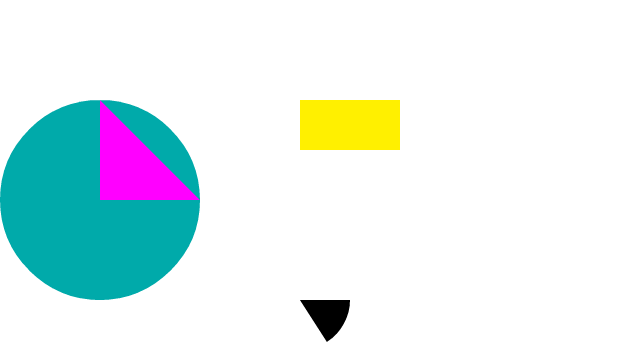
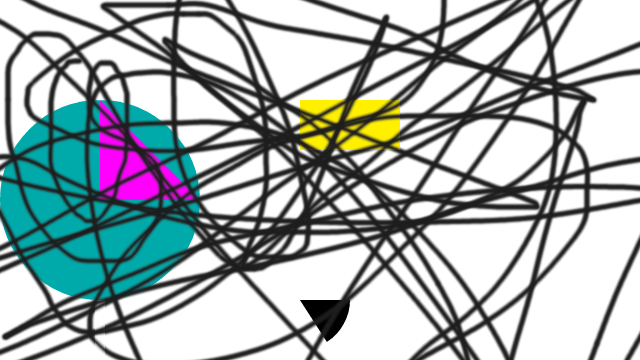
Added Draw Image!!!
Given an image path and a location wher to draw it, the function has 3 diferent options: originalsize, resize and a resize using a multiplier

diff --git a/src/lib.rs b/src/lib.rs
@@ -16,6 +16,8 @@ use font_kit::source::SystemSource;
 
 use euclid::Point2D;
 
+use image::open;
+
 pub enum EventClient {
     LeftClick,
     RightClick,
@@ -24,6 +26,18 @@ pub enum EventClient {
 pub enum MessageXPTO {
     Abc,
     Dfg,
+}
+
+#[derive(Copy, Clone)]
+pub enum DrawImageOptions {
+    OriginalSize,
+    Resize {
+        width: f32,
+        height: f32,
+    },
+    ResizeMultiplyer {
+        mult: f32,
+    }
 }
 
 pub struct DisplayMinifb {
@@ -200,9 +214,23 @@ impl Raqote {
         );
     }
 
-    fn draw_image(&mut self, point: Point2D<f32, f32>) {
-        //self.dt.draw_image_with_size_at(width: f32, height: f32, x: f32, y: f32, image: &Image, options: &DrawOptions)
-        // [todo] how to insert image pointer here?
+    fn draw_image(&mut self, point: Point2D<f32, f32>, path: &str, options: DrawImageOptions) {
+        let rgba = open(path).unwrap().into_rgba();
+        let img: Vec<u32> = rgba.
+            pixels()
+            .map(|p| {
+                ((p[3] as u32) << 24) | ((p[0] as u32) << 16) | ((p[1] as u32) << 8) | (p[2] as u32)
+            })
+            .collect();
+        match options {
+            DrawImageOptions::OriginalSize => 
+                self.dt.draw_image_at(point.x, point.y, &raqote::Image { width:rgba.width() as i32, height: rgba.height() as i32, data: &img}, &DrawOptions::new()),
+            DrawImageOptions::Resize {width, height} => 
+                self.dt.draw_image_with_size_at(width, height,point.x, point.y, &raqote::Image { width:rgba.width() as i32, height: rgba.height() as i32, data: &img}, &DrawOptions::new()),
+            DrawImageOptions::ResizeMultiplyer {mult} => 
+                self.dt.draw_image_with_size_at(rgba.width() as f32*mult,rgba.height() as f32*mult,point.x, point.y, &raqote::Image { width:rgba.width() as i32, height: rgba.height() as i32, data: &img}, &DrawOptions::new()),
+        }
+        
     }
 
     fn draw_text(&mut self, point: Point2D<f32, f32>, string: &str) {
@@ -219,7 +247,7 @@ impl Raqote {
     }
 }
 
-impl Renderer<DisplayMinifb, EventClient, Point2D<f32, f32>, Color> for Raqote {
+impl Renderer<DisplayMinifb, EventClient, Point2D<f32, f32>, Color, DrawImageOptions> for Raqote {
     type Message = MessageXPTO;
     fn map_events(event_client: EventClient) -> event::Event {
         match event_client {
@@ -246,7 +274,7 @@ impl Renderer<DisplayMinifb, EventClient, Point2D<f32, f32>, Color> for Raqote {
 
     fn draw(
         &mut self,
-        instruction: RenderInstruction<Point2D<f32, f32>, Color>,
+        instruction: RenderInstruction<Point2D<f32, f32>, Color, DrawImageOptions>,
         display: &mut DisplayMinifb,
     ) {
         match instruction {
@@ -276,7 +304,7 @@ impl Renderer<DisplayMinifb, EventClient, Point2D<f32, f32>, Color> for Raqote {
                 point_c,
                 color,
             } => self.draw_triangle(point_a, point_b, point_c, color),
-            RenderInstruction::DrawImage { point } => self.draw_image(point),
+            RenderInstruction::DrawImage { point, path, options } => self.draw_image(point, path, options),
             RenderInstruction::DrawText { point, string } => self.draw_text(point, string),
         }
     }

diff --git a/src/bin/draw.rs b/src/bin/draw.rs
@@ -2,12 +2,14 @@ use hyber;
 use hyber::renderer::RenderInstruction;
 use hyber::renderer::RenderInstructionCollection;
 
+use hyber_raqote::DrawImageOptions;
+
 use euclid::Point2D;
 use raqote::Color;
 use std::collections::BTreeMap;
 
 // Method to simulate an iteration over the Render Instructions on the Collection
-fn renderer(render: &BTreeMap<u32, Vec<RenderInstruction<Point2D<f32, f32>, Color>>>) {
+fn renderer(render: &BTreeMap<u32, Vec<RenderInstruction<Point2D<f32, f32>, Color, DrawImageOptions>>>) {
     // Create a Render Instruction Collection with the previous BTreeMap
     let _collection = RenderInstructionCollection {
         instructions: render,
@@ -33,7 +35,7 @@ fn renderer(render: &BTreeMap<u32, Vec<RenderInstruction<Point2D<f32, f32>, Colo
 }
 
 // Method to simulate the creation of frame 1
-fn frame_1(render: &mut BTreeMap<u32, Vec<RenderInstruction<Point2D<f32, f32>, Color>>>) {
+fn frame_1(render: &mut BTreeMap<u32, Vec<RenderInstruction<Point2D<f32, f32>, Color, DrawImageOptions>>>) {
     // Initialize a new vector to hold instructions
     // The vector will contain the widget's instructions list
     // This widget will have ID = 1
@@ -58,6 +60,7 @@ fn frame_1(render: &mut BTreeMap<u32, Vec<RenderInstruction<Point2D<f32, f32>, C
     });
     widget_1_instructions.push(RenderInstruction::DrawText {
         point: Point2D::new(0.0, 0.0),
+        string: "test"
     });
 
     widget_2_instructions.push(RenderInstruction::DrawLine {
@@ -68,6 +71,8 @@ fn frame_1(render: &mut BTreeMap<u32, Vec<RenderInstruction<Point2D<f32, f32>, C
 
     widget_3_instructions.push(RenderInstruction::DrawImage {
         point: Point2D::new(0.0, 0.0),
+        path: "image.png",
+        options: DrawImageOptions::OriginalSize,
     });
 
     widget_4_instructions.push(RenderInstruction::DrawCircle {
@@ -77,6 +82,7 @@ fn frame_1(render: &mut BTreeMap<u32, Vec<RenderInstruction<Point2D<f32, f32>, C
     });
     widget_4_instructions.push(RenderInstruction::DrawText {
         point: Point2D::new(0.0, 0.0),
+        string: "test",
     });
 
     // Insert those widget's instructions on the collection
@@ -88,7 +94,7 @@ fn frame_1(render: &mut BTreeMap<u32, Vec<RenderInstruction<Point2D<f32, f32>, C
 }
 
 // Method to simulate the creation of frame 2
-fn frame_2(render: &mut BTreeMap<u32, Vec<RenderInstruction<Point2D<f32, f32>, Color>>>) {
+fn frame_2(render: &mut BTreeMap<u32, Vec<RenderInstruction<Point2D<f32, f32>, Color, DrawImageOptions>>>) {
     // This widget will have ID = 2
     let widget_2_id = 2;
     let mut widget_2_instructions = Vec::new();
@@ -102,6 +108,7 @@ fn frame_2(render: &mut BTreeMap<u32, Vec<RenderInstruction<Point2D<f32, f32>, C
     });
     widget_2_instructions.push(RenderInstruction::DrawText {
         point: Point2D::new(0.0, 0.0),
+        string: "Test"
     });
 
     // Insert those widget's instructions on the collection

diff --git a/src/bin/pedro.rs b/src/bin/pedro.rs
@@ -52,10 +52,18 @@ fn main() {
         point: Point2D::new(250., 250.),
         string: "Test 123",
     };
+    let image = RenderInstruction::DrawImage {
+        point: Point2D::new(100., 100.),
+        path: "result.png",
+        options: hyber_raqote::DrawImageOptions::ResizeMultiplyer {mult: 1.},
+    };
 
     let size = display.get_size();
+       
     loop {
         raqote.dt.clear(SolidSource::from_unpremultiplied_argb(0xff, 0xff, 0xff, 0xff));
+        
+        raqote.draw(image, &mut display);
         raqote.draw(line, &mut display);
         raqote.draw(circle, &mut display);
         raqote.draw(triangle, &mut display);
